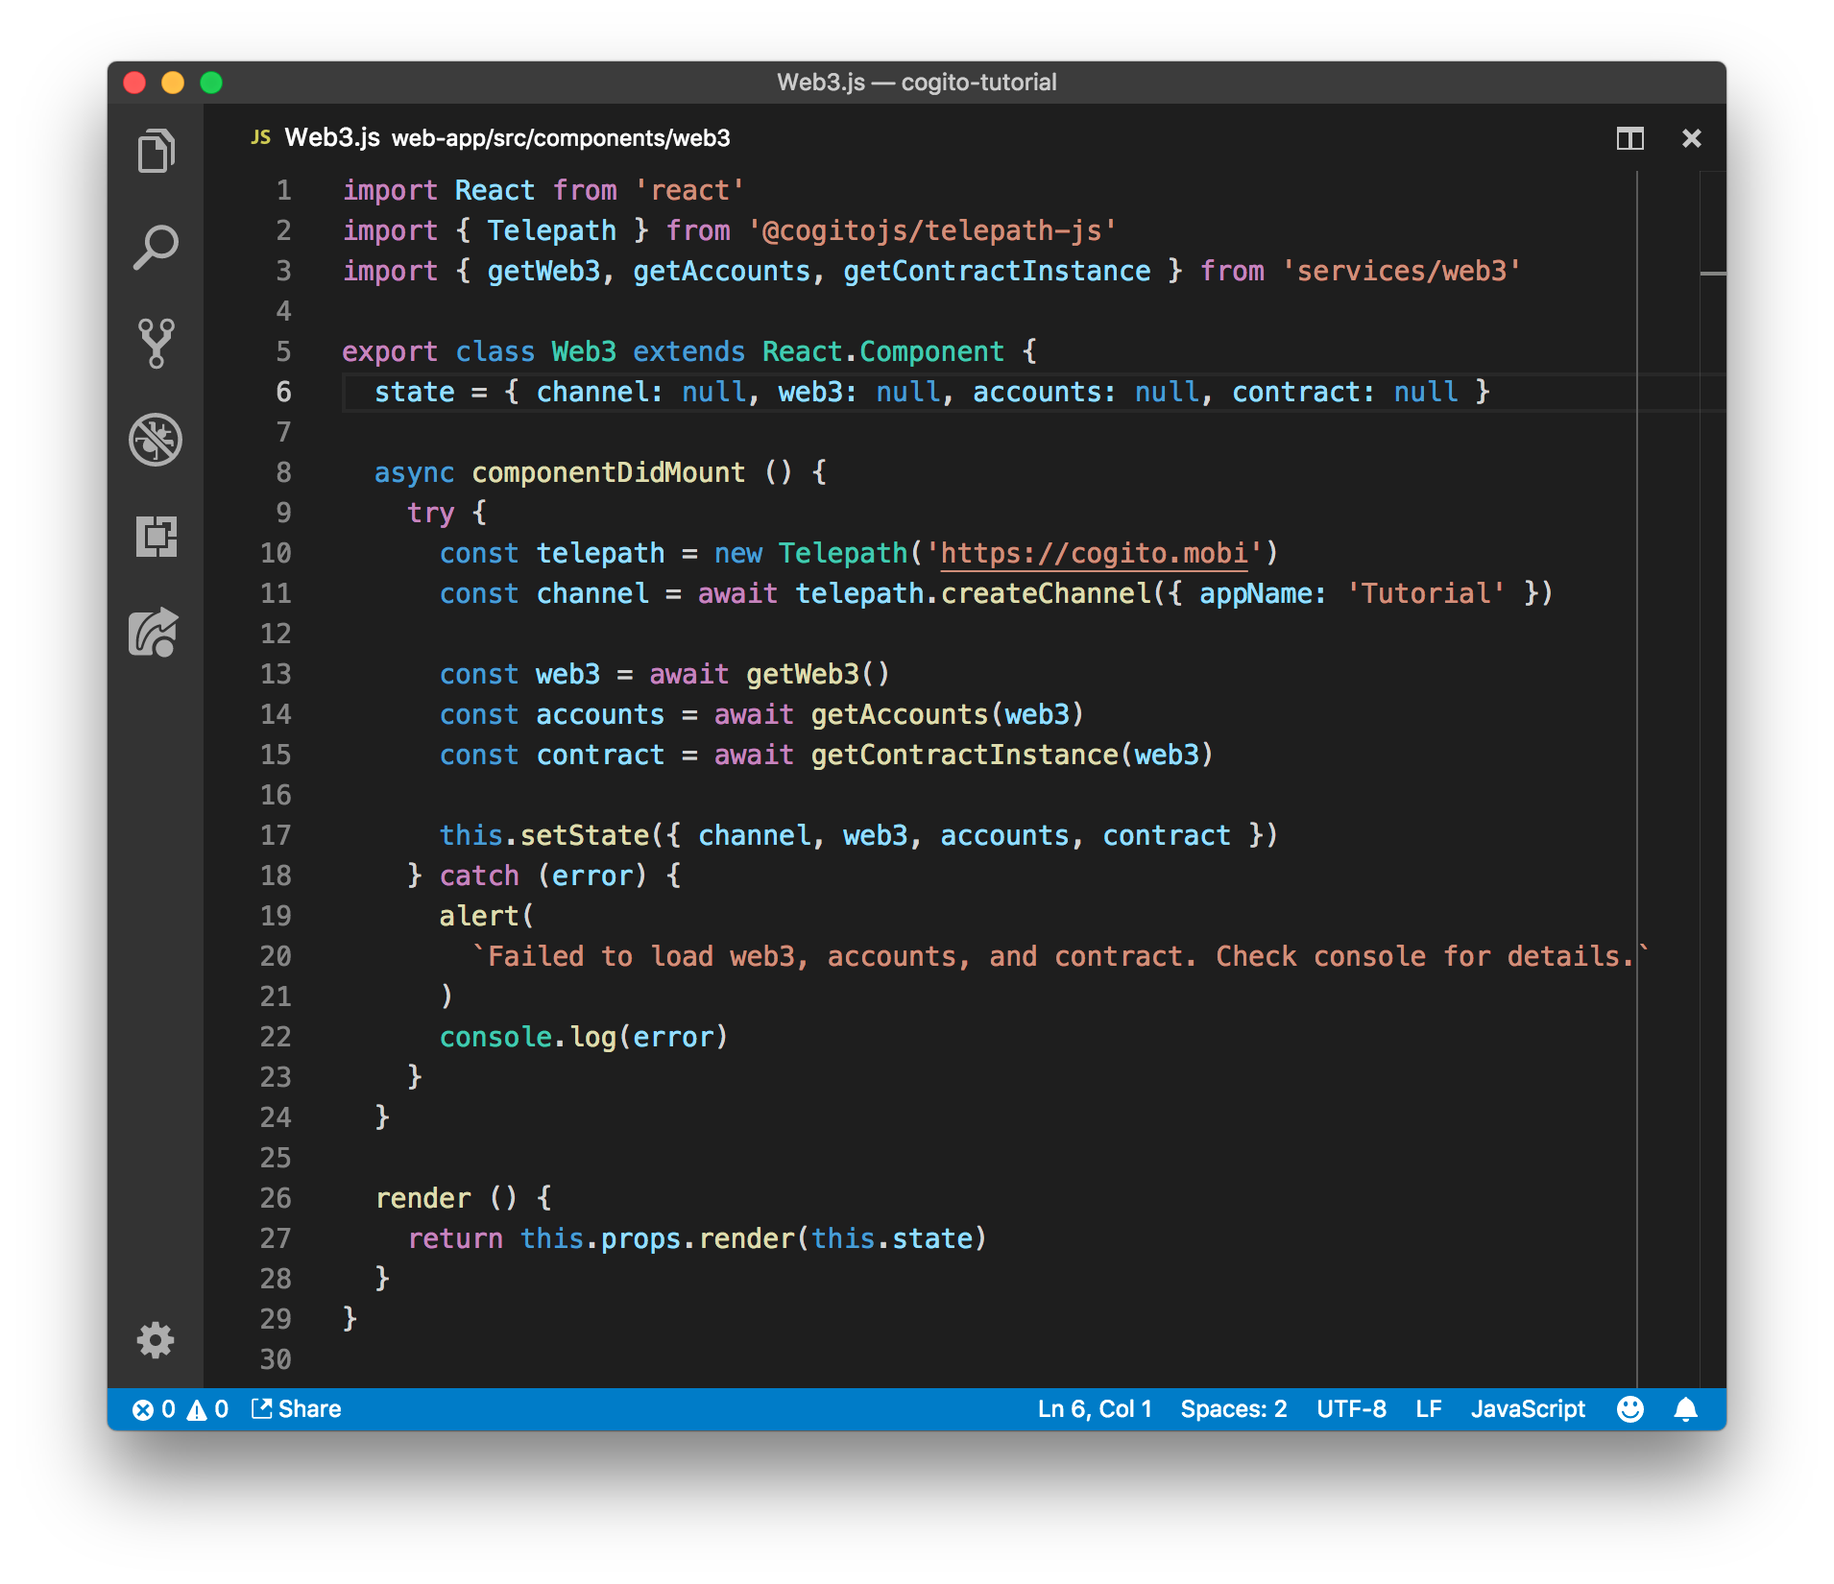
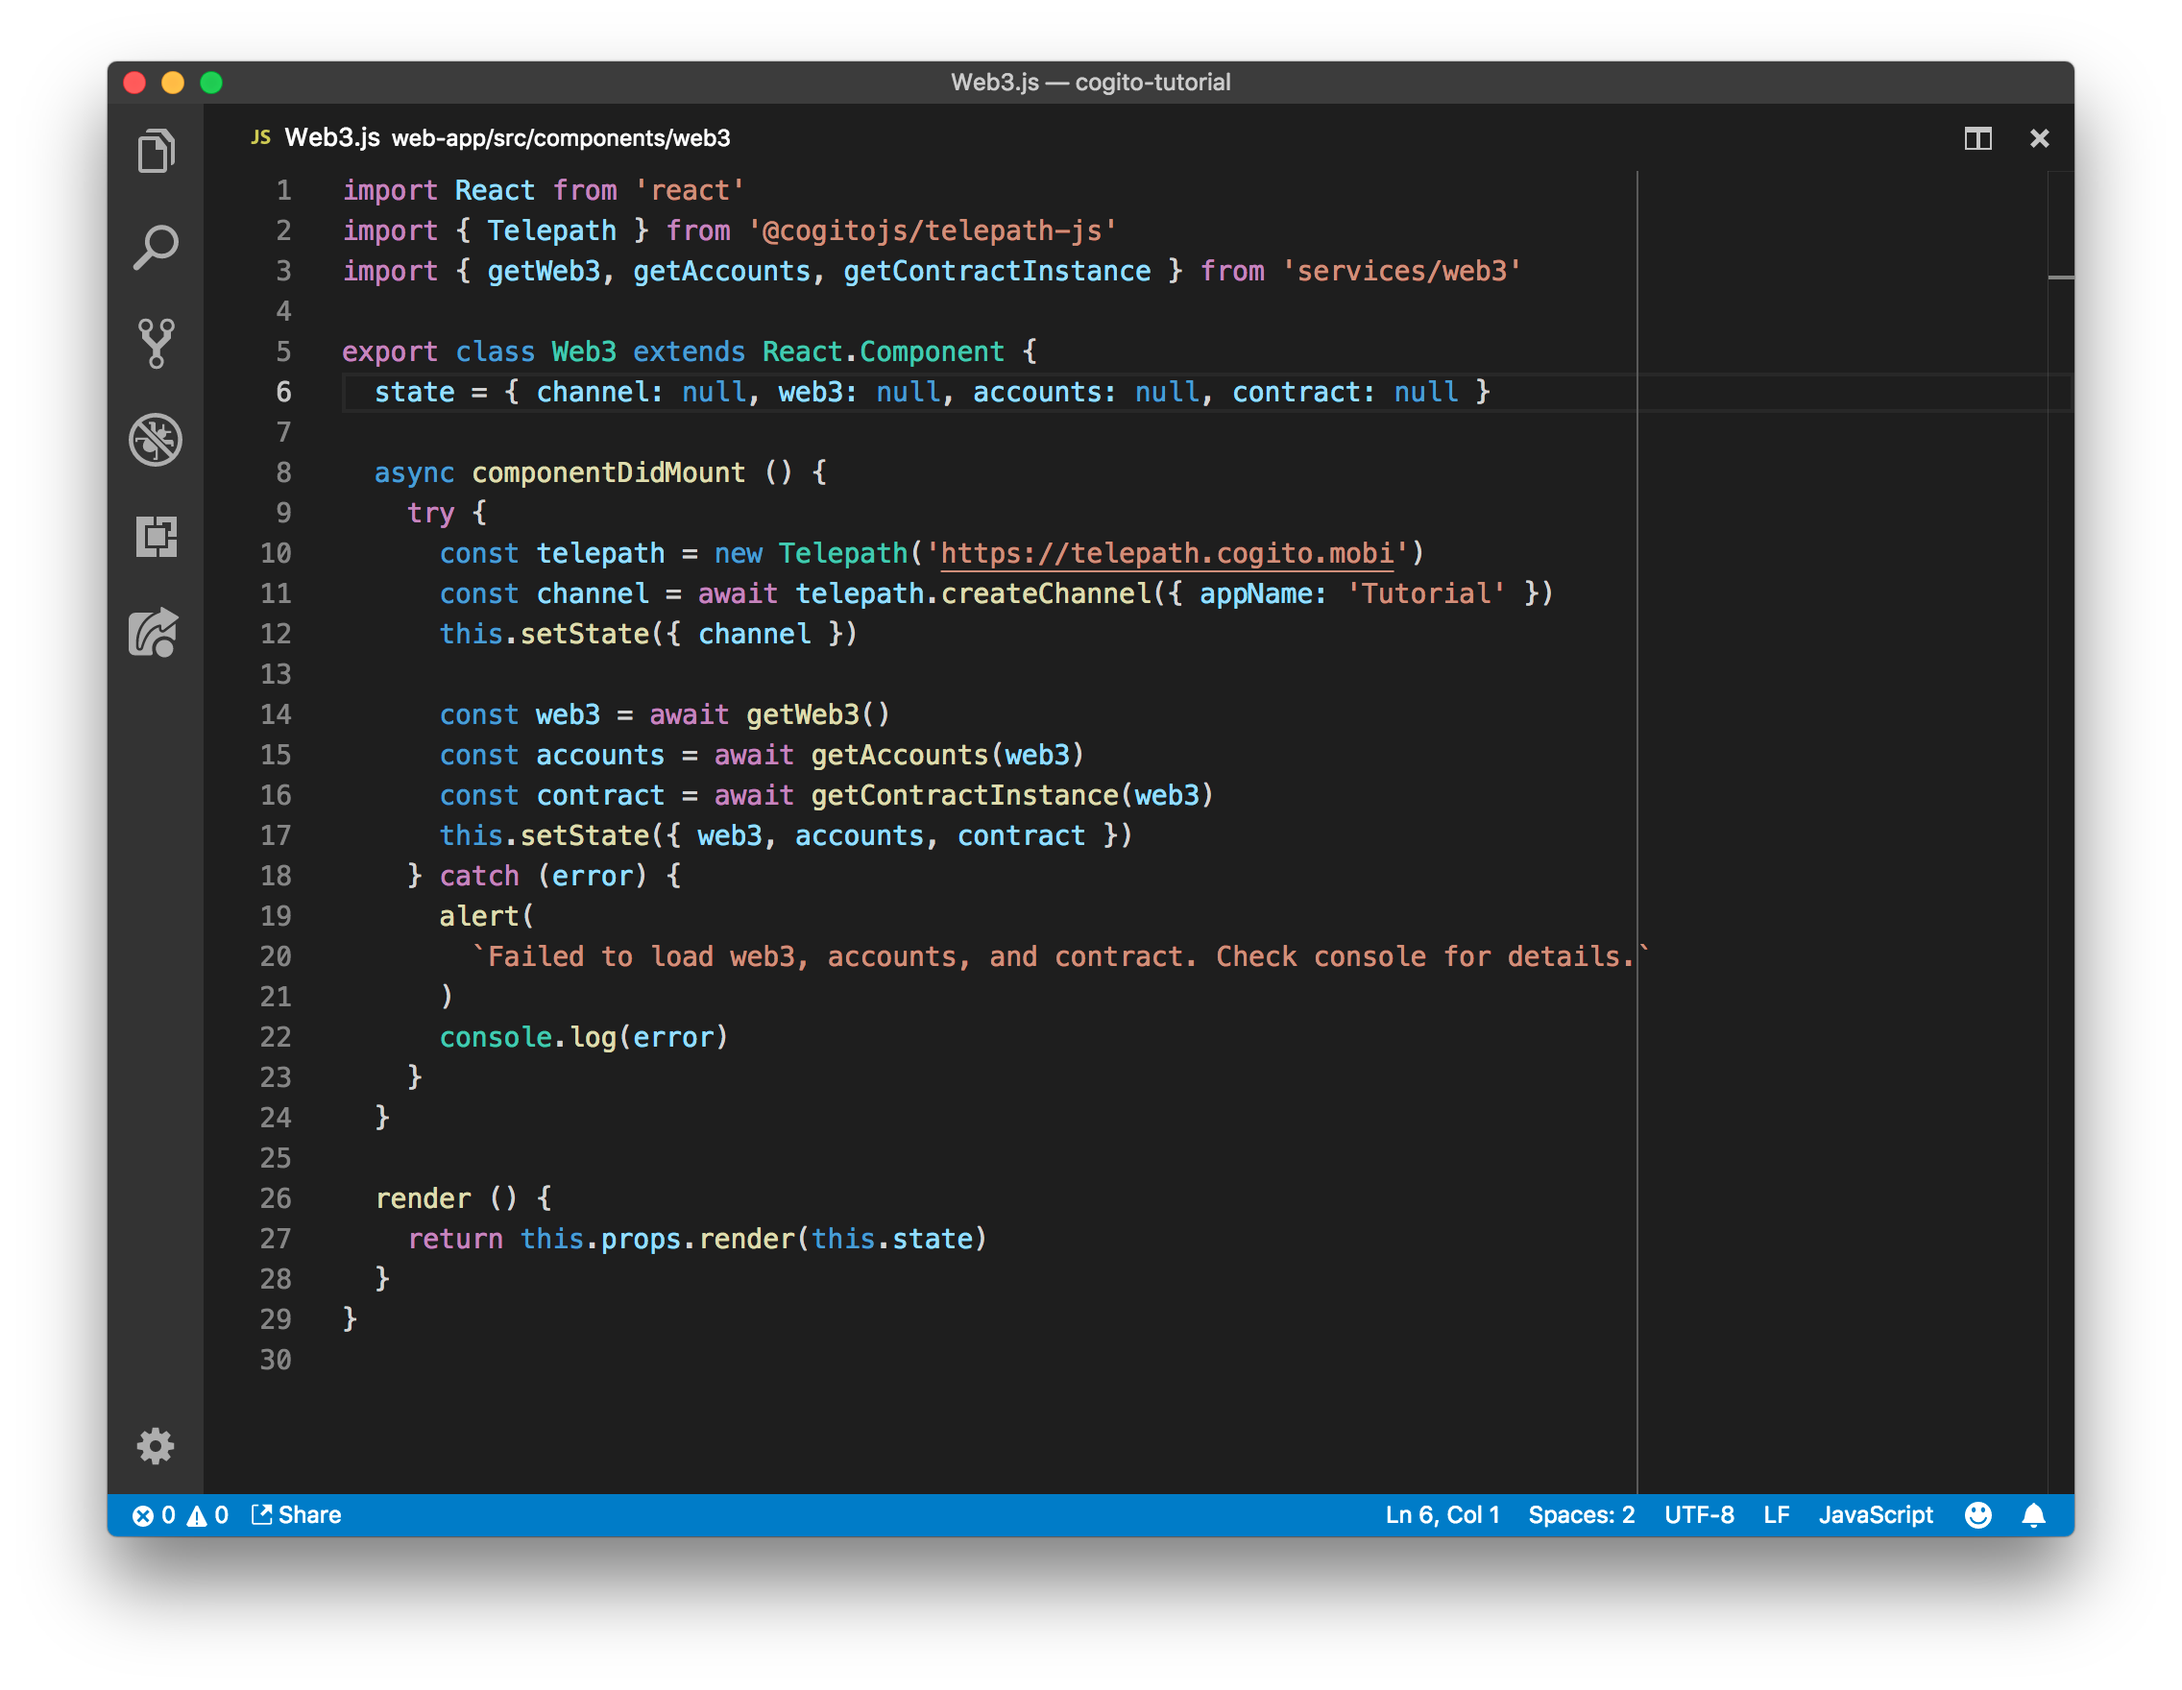
homepage: add instruction for adding a QR Code to the tutorial

Changed region(s): [[0.0309, 0.0309, 0.9576, 0.9273], [0.2471, 0.6491, 0.4016, 0.68], [0.7414, 0.3709, 0.8031, 0.4018]]

diff --git a/workspaces/homepage/src/pages/2-tutorial.md b/workspaces/homepage/src/pages/2-tutorial.md
@@ -70,11 +70,12 @@ Cogito integration
 
 To enable signing with the Cogito app, we'll go through these steps:
 
-1. Set up Telepath to enable communication between the web app and the Cogito
-   mobile app.
-2. Replace the standard Ethereum Web3 provider with a Cogito specific version.
+1. Create a Telepath channel for communication between the web app and the
+   Cogito mobile app.
+2. Display a QR code that allows the mobile app to connect.
+3. Replace the standard Ethereum Web3 provider with a Cogito specific version.
 
-### Setup Telepath
+### Create Telepath channel
 
 The web app and the Cogito mobile app communicate with each other through an
 encrypted channel called Telepath. We start by adding the Telepath package to
@@ -109,14 +110,14 @@ are going to expand this code to create the Telepath channel as well. Change the
 code to read:
 
 ```javascript
-const telepath  = new Telepath('https://cogito.mobi')
+const telepath = new Telepath('https://telepath.cogito.mobi')
 const channel = await telepath.createChannel({ appName: 'Tutorial' })
+this.setState({ channel })
 
 const web3 = await getWeb3()
 const accounts = await getAccounts(web3)
 const contract = await getContractInstance(web3)
-
-this.setState({ channel, web3, accounts, contract })
+this.setState({ web3, accounts, contract })
 ```
 
 Notice how this code creates a new instance of Telepath, then creates a new
@@ -134,7 +135,53 @@ The code should now look like this:
 
 ![code for creating a telepath channel](images/AddingTelepath.png)
 
-TODO: display QR Code
+### Display QR Code
+
+Now that we created a Telepath channel, we are going to ensure that the Cogito
+mobile app can connect to it. We are going to show a QR code that contains the
+connection details. We'll need a module for displaying QR codes. You can
+install it using:
+
+    cd web-app
+    yarn add qrcode.react
+
+We can now open the `web-app/src/App.js` file and add the import for the module:
+
+```javascript
+import QRCode from 'qrcode.react'
+```
+
+Now we turn to the code that is displayed when loading web3:
+
+```javascript
+} else {
+  return <p>Loading web3, accounts, and contract.</p>
+}
+```
+
+We are going to change this code so that it displays the QRCode:
+
+```javascript
+} else if (web3Props.channel) {
+  const { channel } = web3Props
+  const connectUrl = channel.createConnectUrl('https://cogito.mobi')
+  return (
+    <div>
+      <p>Loading web3, accounts, and contract.</p>
+      <QRCode value={connectUrl} style={{ margin: '1em' }} />
+      <p>Please scan the QR Code with the Cogito mobile app.</p>
+    </div>
+  )
+} else {
+  return <p>Creating Telepath Channel..</p>
+}
+```
+
+The code now checks whether the Telepath channel has been created yet. When it's
+been created we ask the channel to create a connection URL, which we then pass
+on the QRCode component. We used `https://cogito.mobi` as the base url for the
+connection URL. This ensures that scanning the QRCode on your mobile device will
+take you to the Cogito mobile app when it's installed.
 
 ### Use Cogito-web3
 
